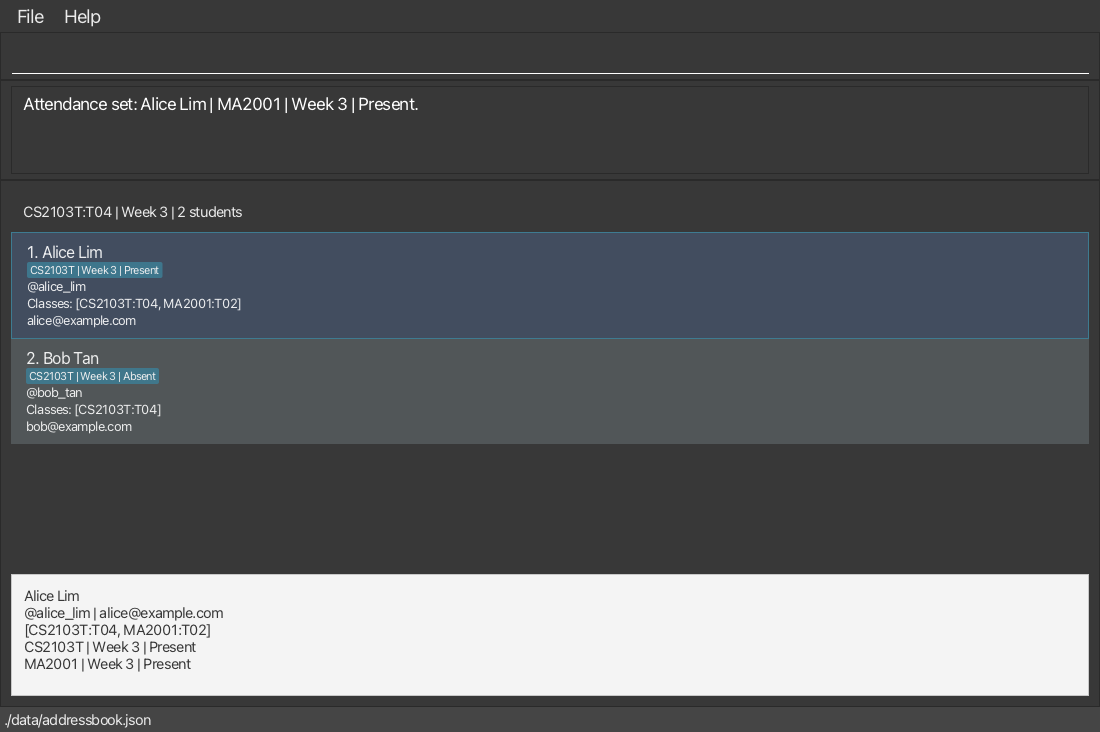
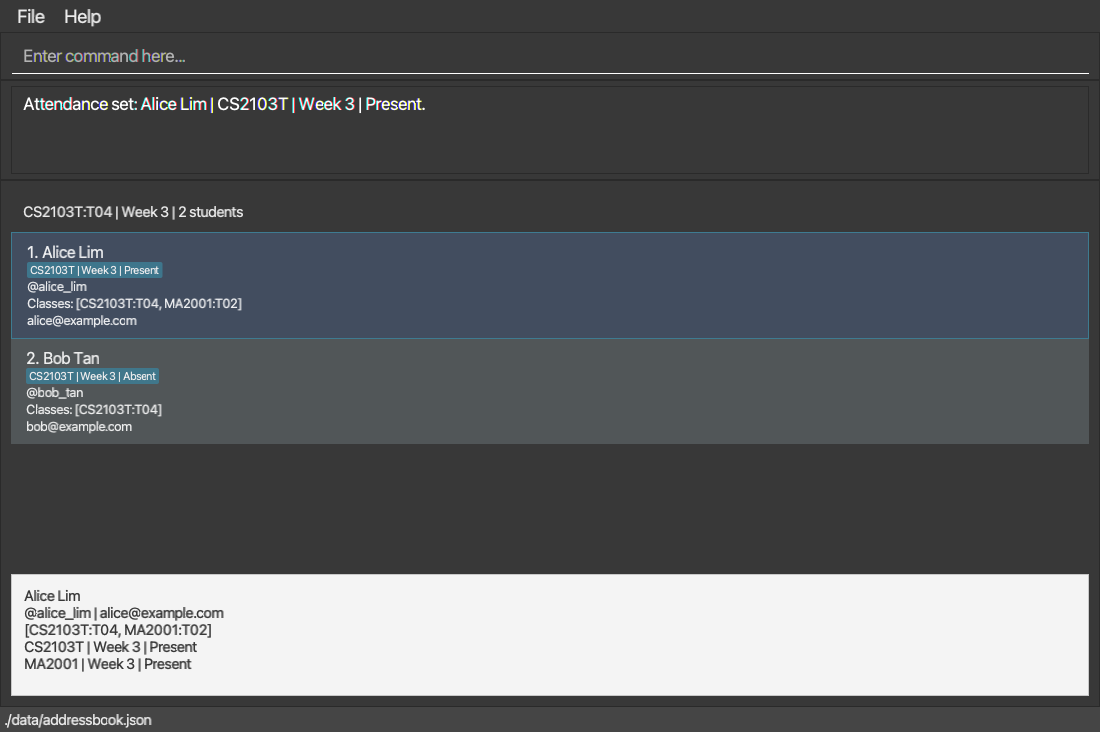
Verify readable empty rosters and final release screenshots

diff --git a/src/main/java/seedu/address/ui/PersonListPanel.java b/src/main/java/seedu/address/ui/PersonListPanel.java
@@ -43,6 +43,7 @@ public class PersonListPanel extends UiPart<Region> {
         super(FXML);
         personListView.setItems(personList);
         emptyRoster.setWrapText(true);
+        emptyRoster.setStyle("-fx-text-fill: white; -fx-padding: 12;");
         personListView.setPlaceholder(emptyRoster);
         personList.addListener((ListChangeListener<Person>) change -> updateRosterHeading());
         updateRosterHeading();

diff --git a/docs/DeveloperGuide.md b/docs/DeveloperGuide.md
@@ -222,10 +222,11 @@ do not promise compatibility with attendance-bearing files; keep backups before 
 `AttendanceFormatter` supplies deterministic details and context-specific badges.
 `PersonListPanel` displays details in a bounded scroll area. Roster owner handoff:
 call `setAttendanceContext(ClassMembership, AttendanceWeek)` after a successful class
-query and `setAttendanceContext(null, null)` after list/name search. It refreshes the
+query and `setAttendanceContext(null, null)` after list. It refreshes the
 cards when only the week changes. On failed queries, leave the context untouched.
 Cards show badges only for an exact matching membership. This PR does not implement
-class queries, headings or class-filter selection clearing; those are now integrated by the v1.3 release completion increment described above.
+class queries, headings or class-filter selection clearing. These are now implemented
+by the v1.3 roster/deletion integration section below.
 
 Validation includes parser boundaries, immutable record isolation, malformed storage,
 real JSON round trips, restart, filtered indices, corrections, clearing, no-op save
@@ -312,7 +313,7 @@ Run `./gradlew check coverage` before opening the PR.
 
 For a GUI smoke test, use a separate temporary working directory:
 
-1. Start the JAR; run `find Alex` to activate a filter.
+1. Start the JAR; run `find c/CS2103T:T04 w/3` to activate a filter.
 2. Run `add n/Anne-Marie Tan p/@Anne_Tan e/Anne@Example.com c/cs2103t:t04 c/MA2001:T02`.
    Check the success message, full roster, new selected row, normalized details and initial attendance text.
 3. Submit the same command again. Check the duplicate-email error, unchanged selection/data and retained input.

diff --git a/CONTEXT.md b/CONTEXT.md
@@ -15,7 +15,7 @@ Last verified: 2026-10-20 (Singapore time).
   was 15 October 23:59 SGT; this completion is after that deadline.
 - Scope: exact class/week query, headings, badges and empty states; selection/context
   handling; strict batch deletion and save-before-live-update; strict Exit format;
-  readable detail text; v1.3 version/title; separate Apple Silicon JAR; UG/DG/README.
+  readable detail and empty-roster text; v1.3 version/title; separate Apple Silicon JAR; UG/DG/README.
 - Validation: baseline passed 330 tests. The completion build passed 335 tests with
   zero failures/errors/skips, Checkstyle, coverage and both JAR tasks on the final code.
   Repository scripts and `git diff --check` passed.
@@ -37,7 +37,8 @@ Last verified: 2026-10-20 (Singapore time).
   view transitions, attendance isolation, native packaging and documentation. The repeated-index
   defect found during validation is fixed; no known blocking findings remain.
 - Remote CI: fork Java CI [run 39385173412](https://github.com/Eskalade/tp/actions/runs/39385173412)
-  is running for implementation commit `9aa8dfaf`; no team check runs exist yet.
+  passed on Windows, macOS and Linux for implementation commit `9aa8dfaf`.
+  Final-head verification remains required; no team check runs existed at the last check.
 - Remaining: GitHub CI verification, merge, build exact
   merged revision, publish JARs/checksums/notes with screenshots, verify downloads.
   Actual Windows/Linux launches are not yet verified locally. The standard JAR uses
